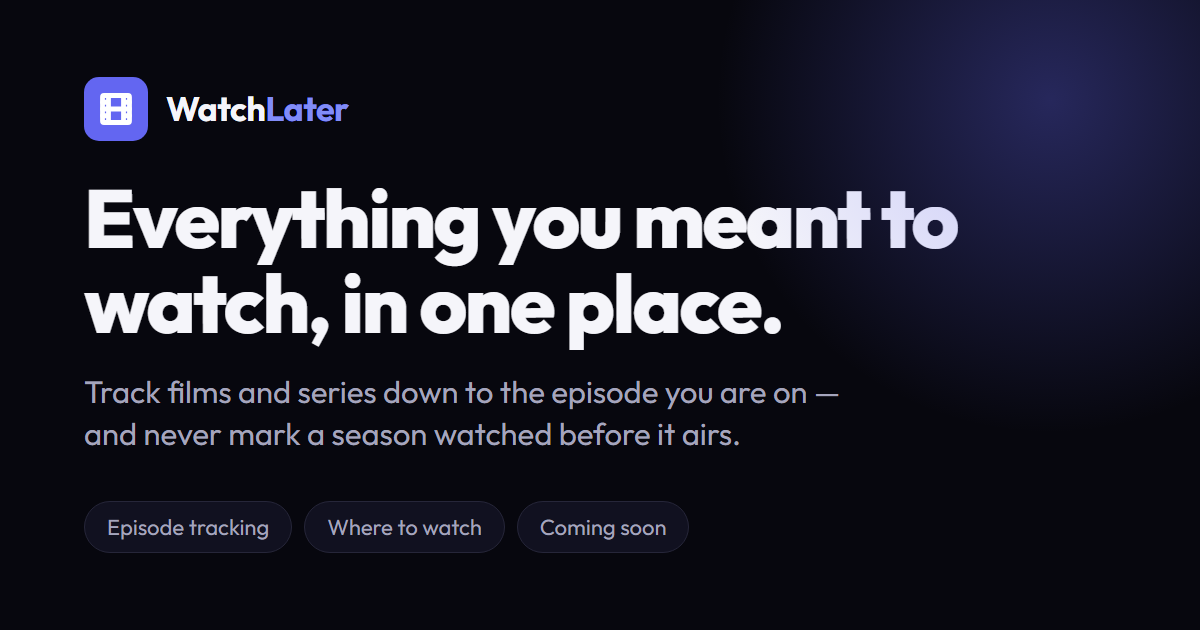
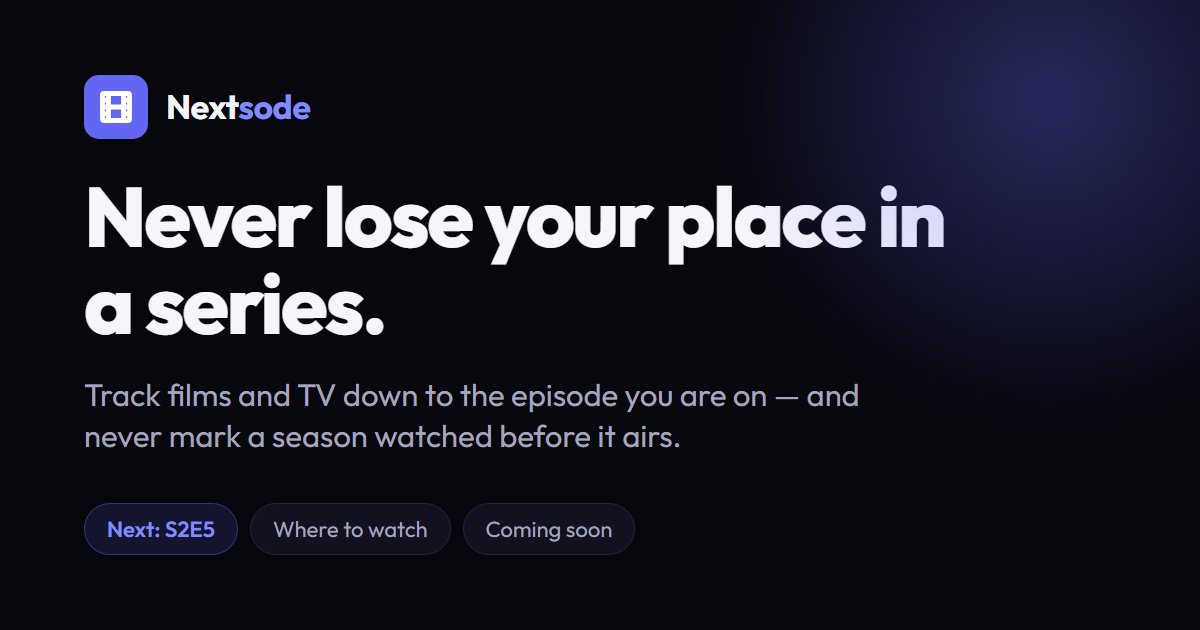
feat: rename to Nextsode (#13)
"WatchLater" could not be found by anyone looking for it. It is YouTube's
feature name, so the brand query — the only query a new site can realistically
win — already belongs to someone else. Worse, "watch" is also a wristwatch in
English, which puts every name in that family up against an entire retail
industry in search.

Candidates were checked against the only test that matters, which is whether
page one is already about something else. Nextreel is a cinema discovery app.
Watchpile sells watches. Binge is a streaming service and the space around it is
crowded. Epsode is clean but Google silently corrects it to "episode", which
hands the brand query away again.

Nextsode returns nothing and is left uncorrected, which is what a coined name
has to do. It also describes the feature this app actually has and others do
not — it is the label already printed on every card: "Next: S2E5".

Renamed everywhere: the worker and its URL, the wordmark, page titles, Open
Graph, JSON-LD, the sitemap host, the README and the regenerated share card and
icons. The "Watch Later" buttons became "Save", which is what they do and no
longer collides with the product name.

The worker rename changes the public URL, so the Google OAuth redirect URI has
to be registered before sign-in works on it. The previous worker keeps serving
the old URL until it is deleted by hand, so nothing breaks in the meantime.

diff --git a/src/lib/components/Seo.svelte b/src/lib/components/Seo.svelte
@@ -53,17 +53,14 @@
 	{/if}
 
 	<meta property="og:type" content="website" />
-	<meta property="og:site_name" content="WatchLater" />
+	<meta property="og:site_name" content="Nextsode" />
 	<meta property="og:title" content={title} />
 	<meta property="og:description" content={description} />
 	<meta property="og:url" content={canonical} />
 	<meta property="og:image" content={image} />
 	<meta property="og:image:width" content="1200" />
 	<meta property="og:image:height" content="630" />
-	<meta
-		property="og:image:alt"
-		content="WatchLater — everything you meant to watch, in one place."
-	/>
+	<meta property="og:image:alt" content="Nextsode — never lose your place in a series." />
 	<meta property="og:locale" content="en_US" />
 
 	<!-- X and several others still read the twitter:* names rather than og:*. -->

diff --git a/src/routes/+page.svelte b/src/routes/+page.svelte
@@ -109,14 +109,14 @@
 	be understood as a free application instead of an untyped page of links.
 -->
 <Seo
-	title="WatchLater — track the films and series you mean to watch"
+	title="Nextsode — never lose your place in a series"
 	description="A free watchlist for films and TV. Track series down to the episode you are on, see where to watch anything, and never mark a season watched before it has aired."
 	origin={page.data.origin}
 	path="/"
 	schema={{
 		'@context': 'https://schema.org',
 		'@type': 'WebApplication',
-		name: 'WatchLater',
+		name: 'Nextsode',
 		url: page.data.origin,
 		applicationCategory: 'EntertainmentApplication',
 		operatingSystem: 'Any',

diff --git a/src/lib/components/media/MediaDetailModal.svelte b/src/lib/components/media/MediaDetailModal.svelte
@@ -405,7 +405,7 @@
 								type="submit"
 								class="flex w-full cursor-pointer items-center justify-center gap-2 rounded-xl bg-brand py-3 text-sm font-semibold text-white shadow-sm shadow-brand/30 transition-colors duration-200 hover:bg-brand-hi"
 							>
-								<Icon name="plus" size={16} stroke={2.5} /> Add to Watch Later
+								<Icon name="plus" size={16} stroke={2.5} /> Save to my list
 							</button>
 						</form>
 					{/if}

diff --git a/src/lib/components/media/DiscoverCard.svelte b/src/lib/components/media/DiscoverCard.svelte
@@ -79,7 +79,7 @@
 					type="submit"
 					class="flex min-h-[38px] w-full cursor-pointer items-center justify-center gap-1.5 rounded-xl bg-brand text-xs font-semibold text-white shadow-sm shadow-brand/30 transition-colors duration-200 hover:bg-brand-hi active:scale-[0.98]"
 				>
-					<Icon name="plus" size={14} stroke={2.5} /> Watch Later
+					<Icon name="plus" size={14} stroke={2.5} /> Save
 				</button>
 			</form>
 		{/if}

diff --git a/src/lib/seo.spec.ts b/src/lib/seo.spec.ts
@@ -3,7 +3,7 @@ import { schemaScript, serializeSchema } from './seo';
 
 describe('serializeSchema', () => {
 	it('produces JSON a parser reads back unchanged', () => {
-		const schema = { '@type': 'WebApplication', name: 'WatchLater' };
+		const schema = { '@type': 'WebApplication', name: 'Nextsode' };
 		expect(JSON.parse(serializeSchema(schema))).toEqual(schema);
 	});
 

diff --git a/src/routes/watchlist/+page.svelte b/src/routes/watchlist/+page.svelte
@@ -157,8 +157,8 @@
 	sign-in prompt — ranking a locked door helps nobody who finds it.
 -->
 <Seo
-	title="My List — WatchLater"
-	description="Your personal watch-later list of films and TV shows."
+	title="My List — Nextsode"
+	description="Your personal list of films and TV shows to watch."
 	origin={page.data.origin}
 	path="/watchlist"
 	indexable={false}

diff --git a/src/lib/domain/watchlist.ts b/src/lib/domain/watchlist.ts
@@ -4,7 +4,7 @@ import { hasUpcoming, upcomingSortKey } from './upcoming';
 import type { MediaType } from '../types';
 
 /**
- * Pure, framework-agnostic filtering and sorting for the watch-later list.
+ * Pure, framework-agnostic filtering and sorting for the saved list.
  * Extracted from the UI so it can be unit-tested in isolation.
  */
 

diff --git a/src/lib/server/db/schema.ts b/src/lib/server/db/schema.ts
@@ -56,7 +56,7 @@ export const session = sqliteTable(
 );
 
 /**
- * A single movie or TV show saved to a user's "Watch Later" list.
+ * A single movie or TV show on a user's list.
  *
  * TMDB is the source of truth for media metadata, but we persist a lightweight,
  * display-ready snapshot here so the list renders instantly without an extra

diff --git a/src/lib/components/ui/AppShell.svelte b/src/lib/components/ui/AppShell.svelte
@@ -83,7 +83,7 @@
 					<Icon name="film" size={18} />
 				</span>
 				<span class="font-display text-lg font-extrabold tracking-tight sm:text-xl">
-					Watch<span class="text-brand-hi">Later</span>
+					Next<span class="text-brand-hi">sode</span>
 				</span>
 			</a>
 

diff --git a/README.md b/README.md
@@ -1,9 +1,9 @@
-# 🎬 WatchLater
+# 🎬 Nextsode
 
-Search movies and TV shows, save them to a personal watch-later list, and keep
+Search movies and TV shows, save them to a personal list, and keep
 track of where you are in a series. Mobile-first, and free to host.
 
-**▶ Live demo: [watchlater.ilsproj.workers.dev](https://watchlater.ilsproj.workers.dev)**
+**▶ Live demo: [nextsode.ilsproj.workers.dev](https://nextsode.ilsproj.workers.dev)**
 
 ---
 
@@ -81,7 +81,7 @@ Tokens → template _Edit Cloudflare Workers_).
 First-time setup:
 
 ```bash
-turso db create watchlater   # put the URL + token in .env, then:
+turso db create nextsode   # put the URL + token in .env, then:
 npm run db:migrate           # apply the schema to the remote database
 
 # Production secrets are not read from .env:
